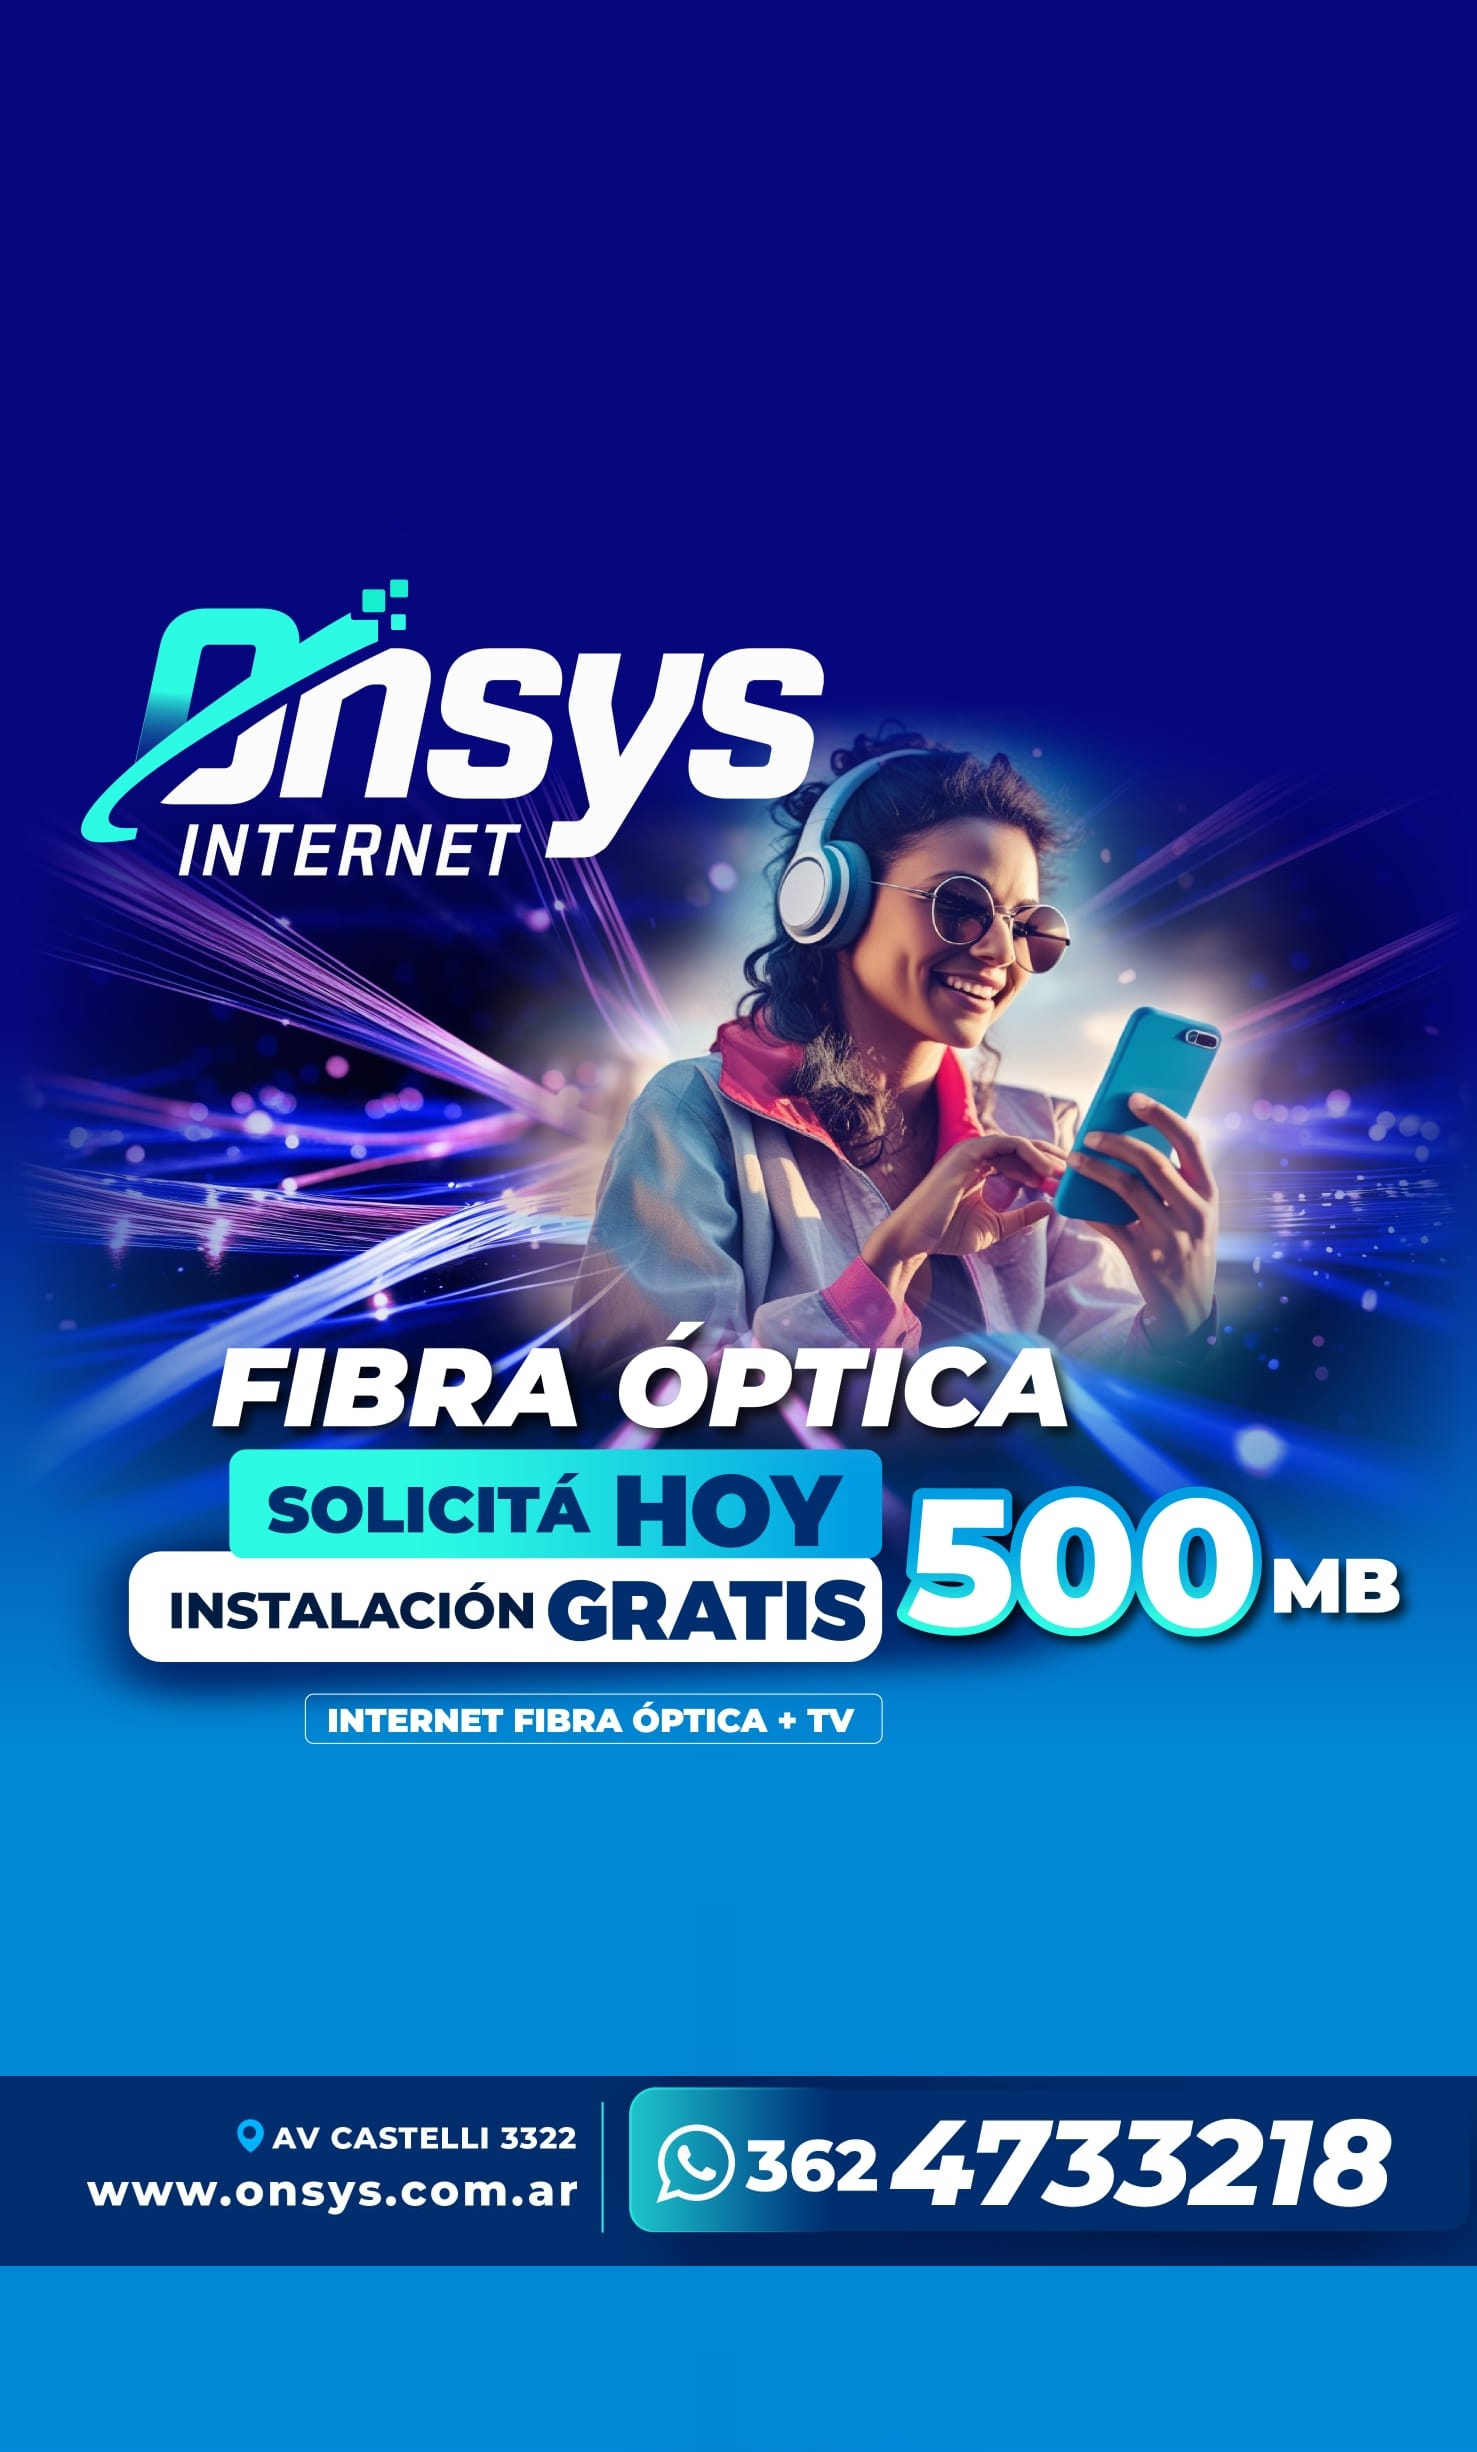
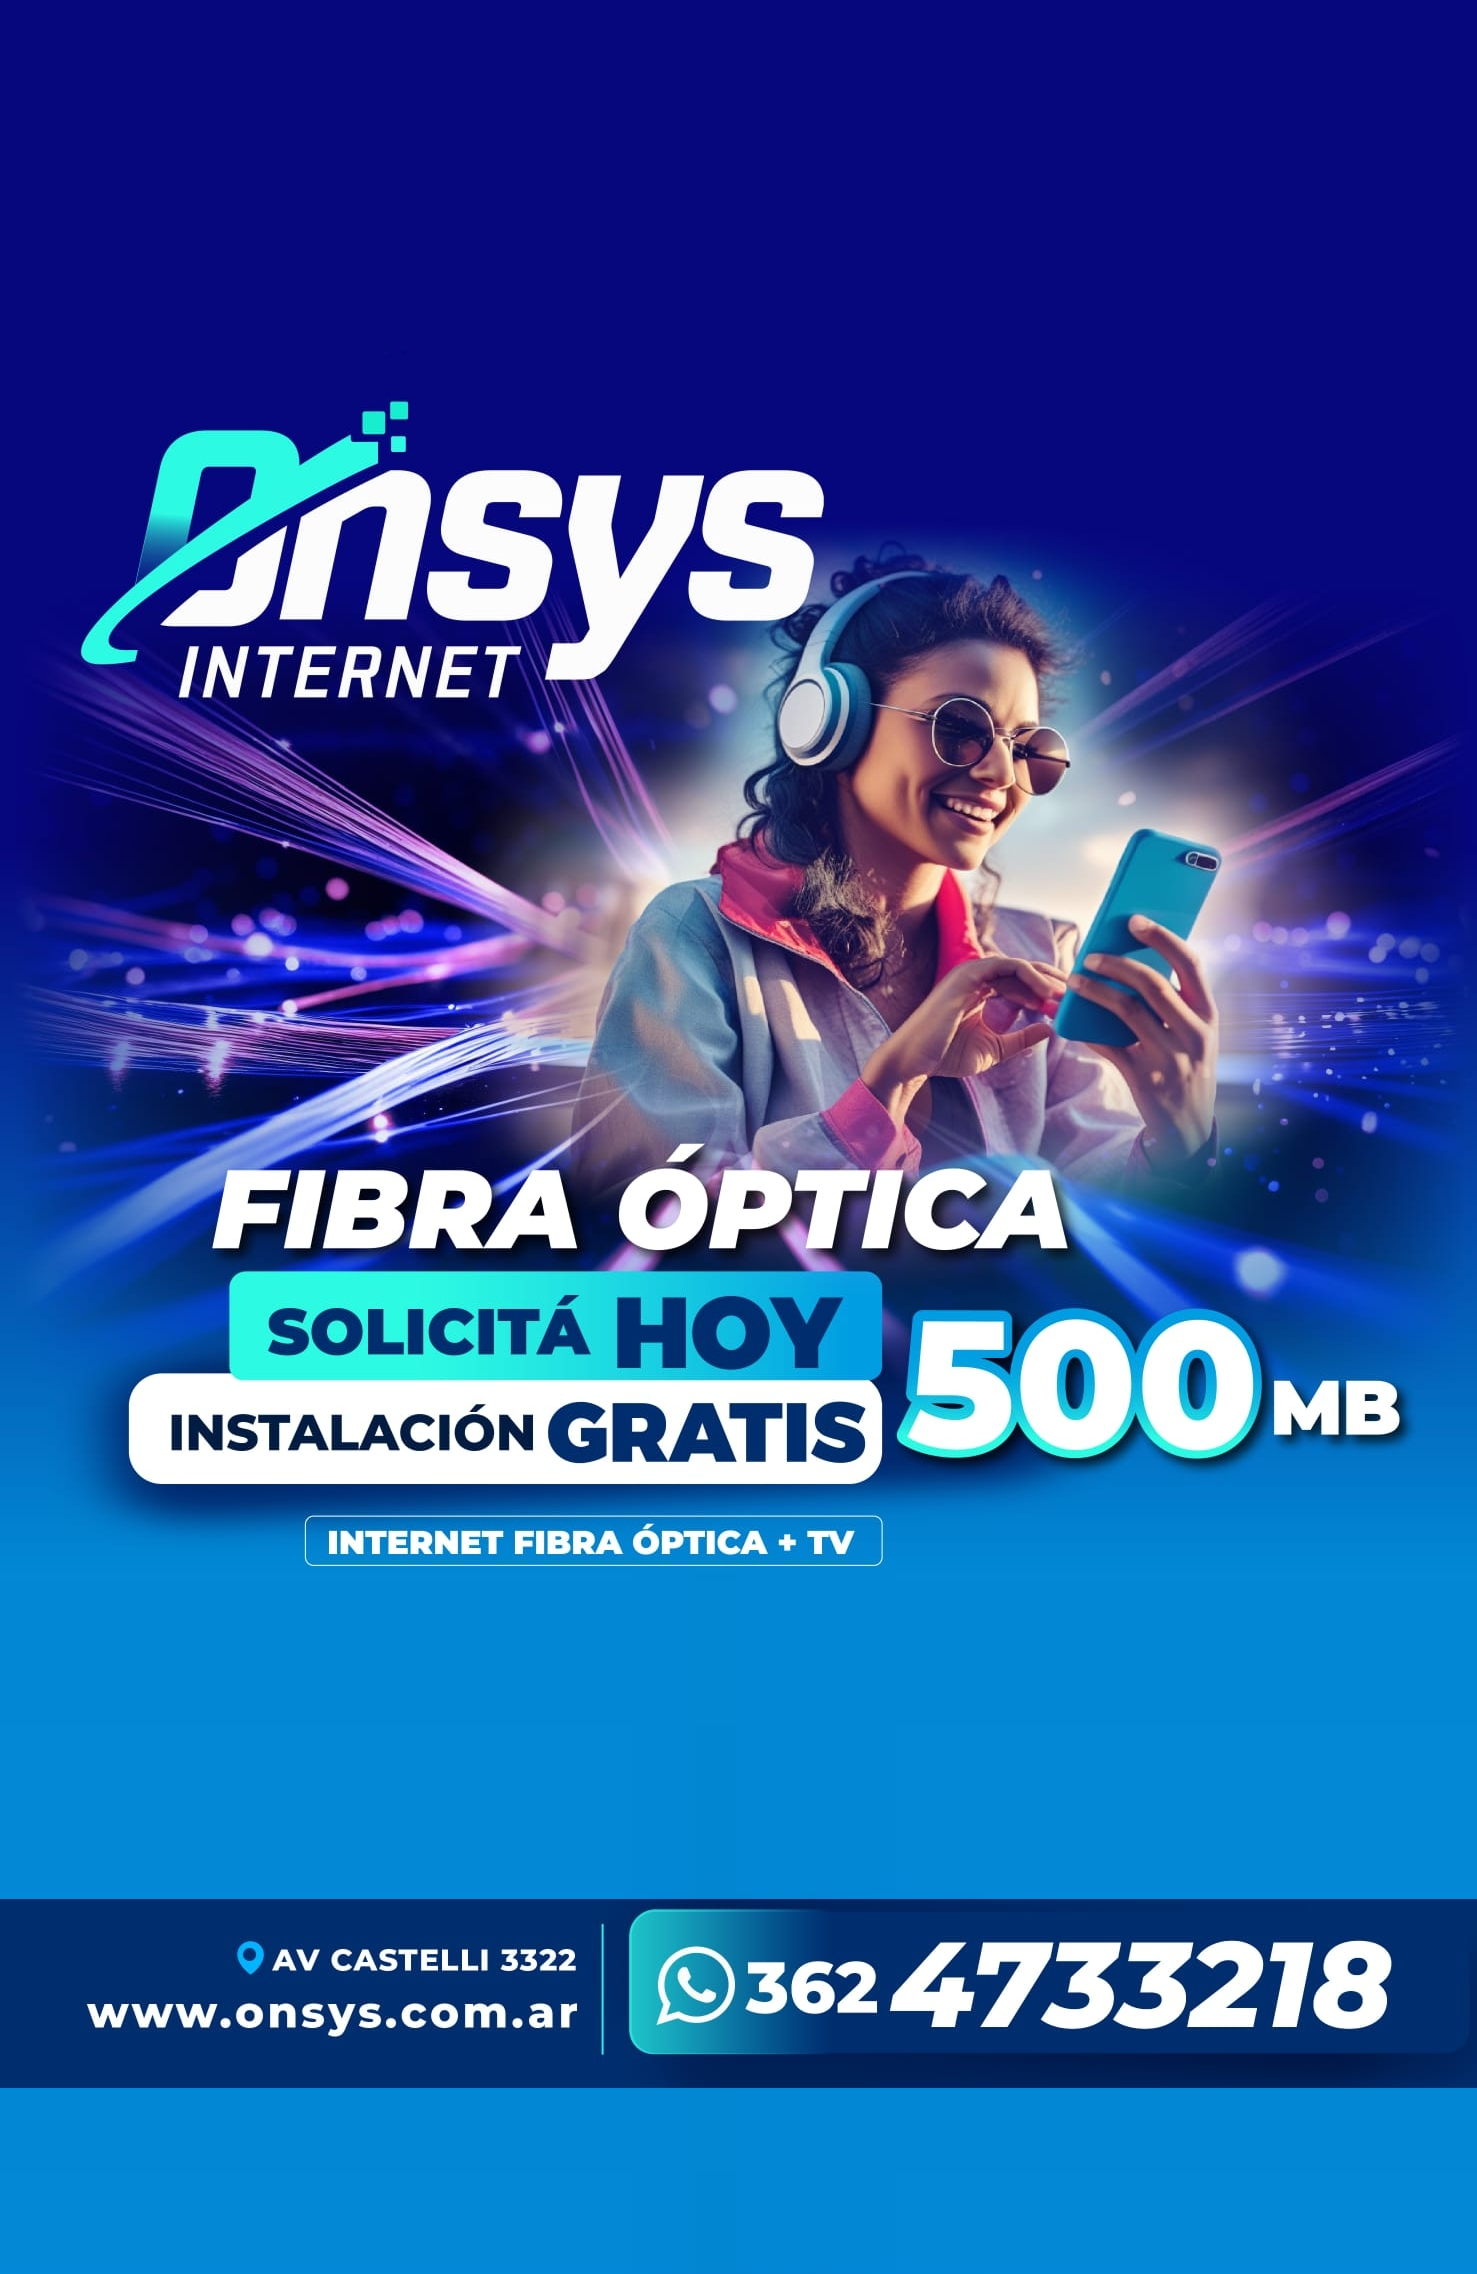
ajustes de tamaños

diff --git a/src/components/HeroPromo.module.css b/src/components/HeroPromo.module.css
@@ -1,23 +1,26 @@
 .hero {
   padding: 0;
+  margin: 0;
   display: flex;
   flex-direction: column;
   align-items: center;
-  justify-content: flex-start;
+  justify-content: flex-start; /* imagen pegada arriba */
   gap: 0;
-  min-height: auto;
+  min-height: auto; /* no ocupa toda la pantalla */
 }
 
 .imageWrap {
   width: 100%;
   max-width: 480px; /* opcional, ajustá según tu diseño */
+  padding: 0;
+  margin: 0;
   overflow: hidden;
 }
 
 .image {
+  display: block; /* evita espacios por inline */
   width: 100%;
   height: auto;
-  display: block;
   object-fit: contain;
 
   /* Fade-in */
